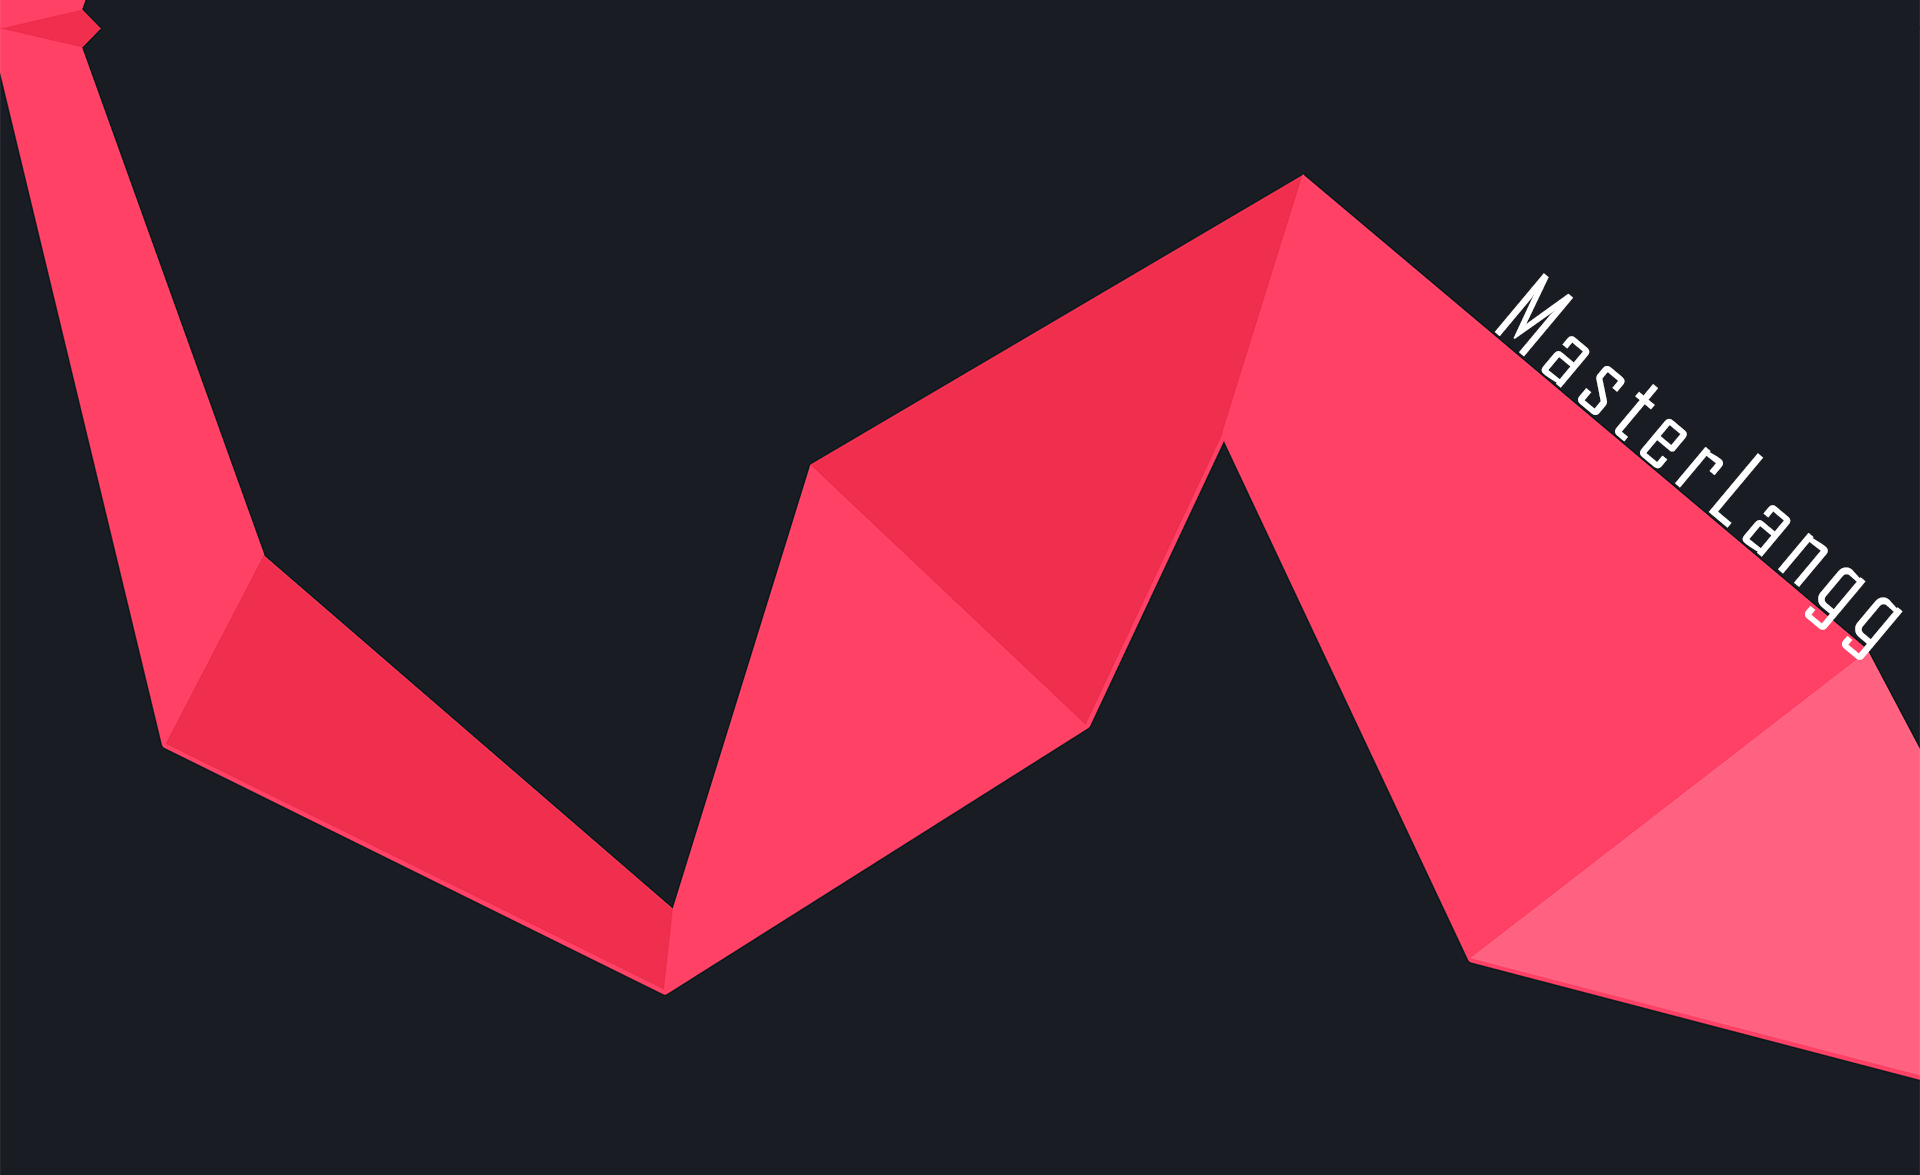
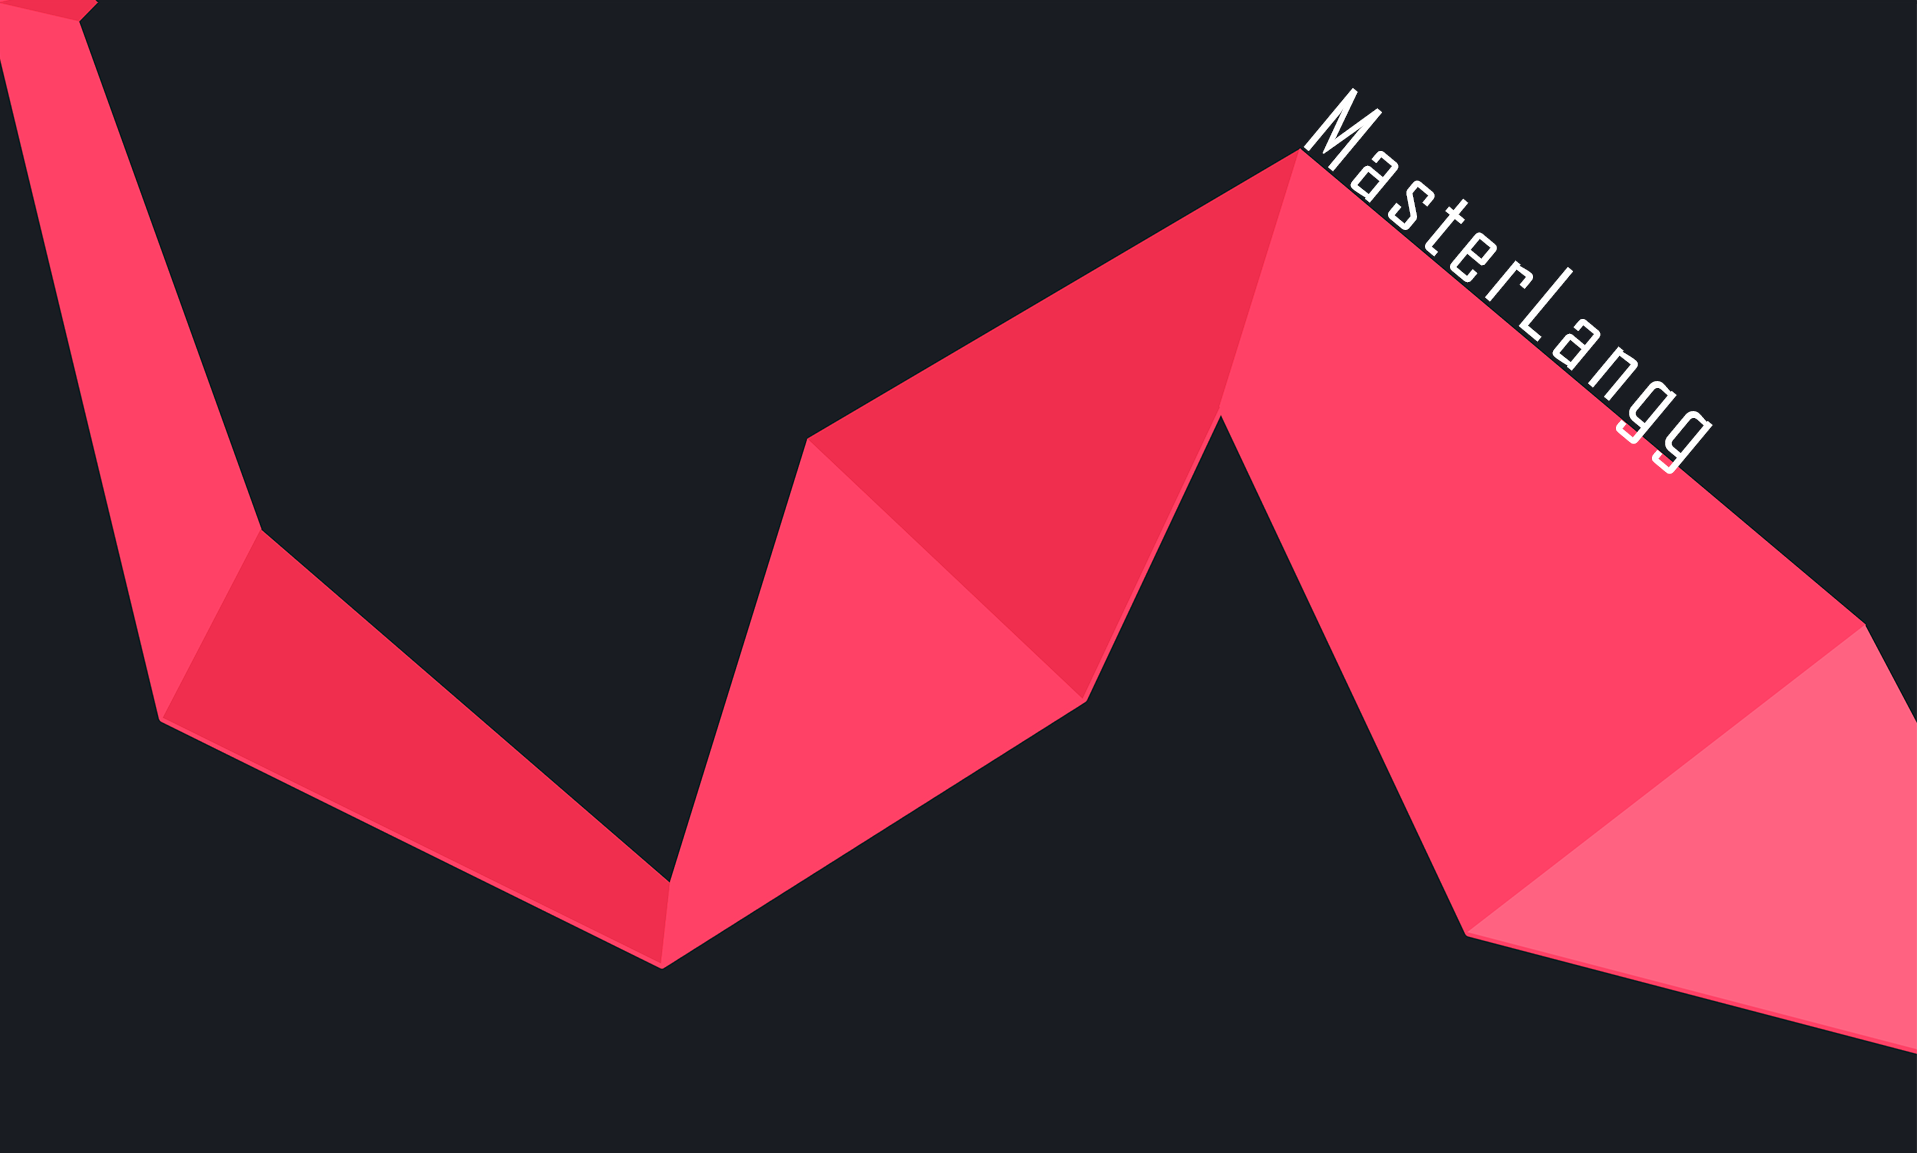
background update

diff --git a/public/assets/Img/style.css b/public/assets/Img/style.css
@@ -2,7 +2,7 @@
 body{
 	text-align:center;
 	font-size:30px;
-
+	background-size: 100%,100%;
 	}
 @media only screen and (max-width: 1140px) {
 	.account-page{
@@ -132,7 +132,7 @@ a:hover {
 	display:none;
 }
 #loginPanel{
-
+	background-size: 100%  100% !important;
 	background-image:url("index.png");
     display: table;
     width: 100%;
@@ -145,7 +145,7 @@ a:hover {
 .formChange
 {    box-shadow: 0 0 0px 0 rgba(0, 0, 0, 0.2), 0 0px 0px 0 rgba(0, 0, 0, 0.24) !important;}
 #gamePanel{
-
+	background-size: 100% 100% !important;
 	background-image:url("background2.png");
     width: 100%;
     height: 100vh;
